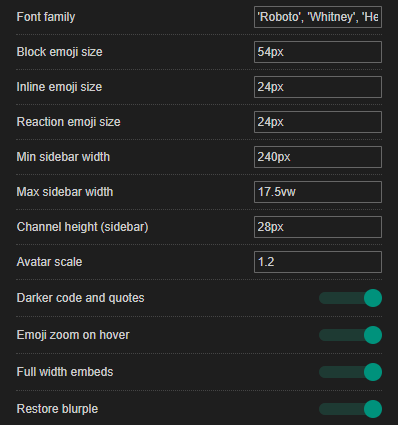
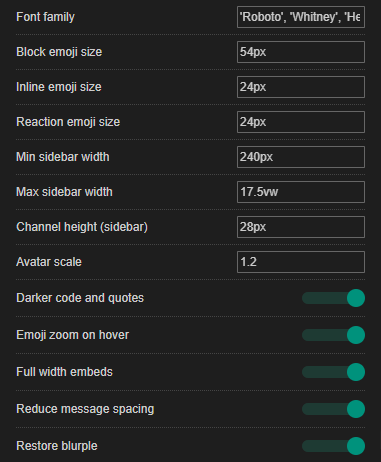
Added reduce-message-spacing option.

diff --git a/discord/discord-customization/discord-customization.user.css b/discord/discord-customization/discord-customization.user.css
@@ -3,22 +3,23 @@
 @namespace      https://github.com/jesuscc1993/
 @author         MetalTxus
 @description    Provides some extra customization options for Discord.
-@version        2022.10.11.19.35
+@version        2022.10.11.20.08
 @license        CC BY-SA 4.0
 @preprocessor   less
 
-@var text font-family            "Font family"              "'Whitney', 'Helvetica Neue', 'Helvetica', 'Arial', sans-serif"
-@var text block-emoji-size       "Block emoji size"         54px
-@var text inline-emoji-size      "Inline emoji size"        24px
-@var text reaction-emoji-size    "Reaction emoji size"      20px
-@var text min-sidebar-width      "Min sidebar width"        240px
-@var text max-sidebar-width      "Max sidebar width"        240px
-@var text channel-height         "Channel height (sidebar)" 32px
-@var text avatar-scale           "Avatar scale"             1
-@var checkbox darker-quotes      "Darker code and quotes"   0
-@var checkbox emoji-zoom         "Emoji zoom on hover"      0
-@var checkbox full-width-embeds  "Full width embeds"        0
-@var checkbox restore-blurple    "Restore blurple"          0
+@var text font-family                "Font family"              "'Whitney', 'Helvetica Neue', 'Helvetica', 'Arial', sans-serif"
+@var text block-emoji-size           "Block emoji size"         54px
+@var text inline-emoji-size          "Inline emoji size"        24px
+@var text reaction-emoji-size        "Reaction emoji size"      20px
+@var text min-sidebar-width          "Min sidebar width"        240px
+@var text max-sidebar-width          "Max sidebar width"        240px
+@var text channel-height             "Channel height (sidebar)" 32px
+@var text avatar-scale               "Avatar scale"             1
+@var checkbox darker-quotes          "Darker code and quotes"   0
+@var checkbox emoji-zoom             "Emoji zoom on hover"      0
+@var checkbox full-width-embeds      "Full width embeds"        0
+@var checkbox reduce-message-spacing "Reduce message spacing"   0
+@var checkbox restore-blurple        "Restore blurple"          0
 
 ==/UserStyle== */
 @-moz-document domain("discord.com") {
@@ -66,6 +67,16 @@
 
 	[class*="content-"] [class*="sidebar-"] [class*="panels-"] [class*="container-"] [class*="avatarWrapper-"] {
 		flex: 1;
+	}
+
+	/* channel height */
+	[class*="sidebar"] [class*="iconVisibility"]:not([class*="wrapperCommon"]) > * {
+		height: var(--channel-height);
+	}
+
+	[class*="sidebar"] [class*="iconVisibility"]:not([class*="wrapperCommon"]) > [class*="unread"] {
+		margin-top: 0;
+		top: 1px;
 	}
 
 	/* HIDE UNLESS HOVERED */
@@ -271,14 +282,13 @@
 		max-width: 100% !important;
 	}
 
-	/* channel height */
-	[class*="sidebar"] [class*="iconVisibility"]:not([class*="wrapperCommon"]) > * {
-		height: var(--channel-height);
-	}
-	
-	[class*="sidebar"] [class*="iconVisibility"]:not([class*="wrapperCommon"]) > [class*="unread"] {
-		margin-top: 0;
-		top: 1px;
+	/* reduced message spacing */
+	html when (@reduce-message-spacing =1) {
+		[class*="wrapper"][class*="compact"],
+		[class*="wrapper"][class*="cozy"] {
+			padding-top: 0;
+			padding-bottom: 0;
+		}
 	}
 
 	/* blurple restoration */
